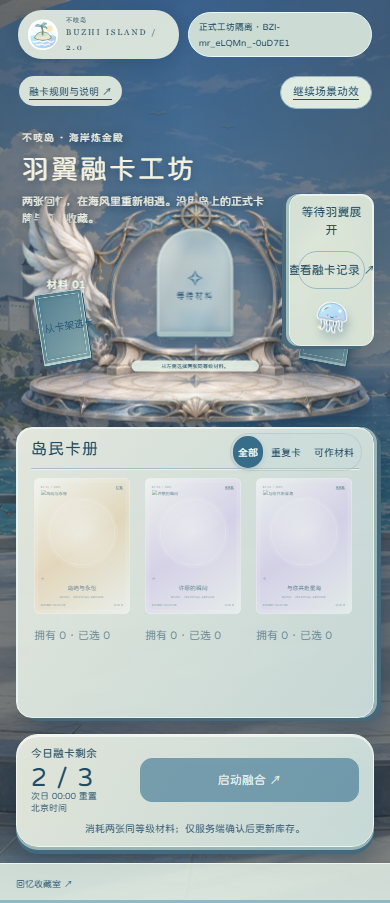
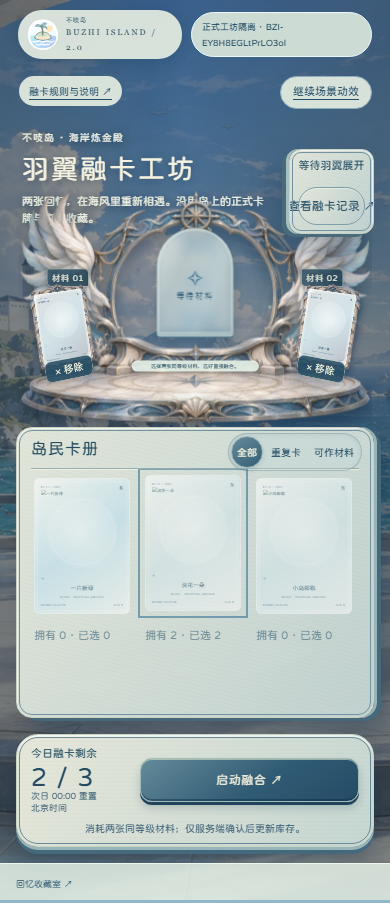
style: match material cradles to painted altar

diff --git a/ui-preview/workshop-visual-repair.css b/ui-preview/workshop-visual-repair.css
@@ -42,3 +42,9 @@ body[data-state=fusing] .altar-motion-frame{animation:altar-resonance 1.2s ease-
 @keyframes altar-hover{0%,100%{transform:translate3d(0,2px,0)}50%{transform:translate3d(0,-6px,0)}}@keyframes altar-reflection{0%,18%{transform:translate3d(0,0,0);opacity:0}28%{opacity:.8}62%{transform:translate3d(270%,0,0);opacity:.8}72%,100%{transform:translate3d(300%,0,0);opacity:0}}@keyframes altar-core{50%{opacity:.32;transform:scaleX(1.15)}}@keyframes altar-resonance{0%,100%{transform:translate3d(0,-3px,0) scale(1)}50%{transform:translate3d(0,-7px,0) scale(1.012)}}
 .effects-paused .altar-motion-frame,.effects-paused .altar-sheen:before,.effects-paused .altar-motion-frame:after,.motion-suspended .altar-motion-frame,.motion-suspended .altar-sheen:before,.motion-suspended .altar-motion-frame:after{animation-play-state:paused!important}
 @media(prefers-reduced-motion:reduce){.altar-motion-frame,.altar-sheen:before,.altar-motion-frame:after{animation:none!important}.altar-sheen{display:none}}
+
+/* Painted material cradles belong to the stage, never to the canonical card. */
+.machine .material-slot,.machine .material-slot.filled{background:none;border:0;border-radius:0;box-shadow:none;backdrop-filter:none;isolation:isolate;overflow:visible}.machine .material-slot:before{content:'';position:absolute;inset:-15px -12px;z-index:-1;background:url('/assets/material-cradle-painted.png') center/100% 100% no-repeat;border:0;border-radius:0;box-shadow:none;pointer-events:none;filter:drop-shadow(3px 9px 7px #0c294f88)}.machine .material-slot>.empty-slot{color:#d7e5dc;text-shadow:0 1px 4px #0c294a;font-family:var(--workshop-type);font-size:11px;padding:12px;line-height:1.8}.machine .material-slot .bzi-official-card-host{translate:none}.slot-label{top:153px;color:#e4e8d7;font-weight:400;font-family:var(--workshop-type);font-size:11px;letter-spacing:1px;background:linear-gradient(120deg,#36566adf,#17384cd9);border:1px solid #a3b8b0;border-radius:4px 10px;padding:3px 9px;box-shadow:inset 0 1px #f8f2d32e,0 3px 7px #0e2a4359}.remove-card:after{color:#edf0dd;background:#274e64e3;border:1px solid #90aaa7;border-radius:12px;padding:2px 4px;bottom:-34px;font-size:10px;text-shadow:none}
+.collection-cabinet,.result-cabinet{background:repeating-linear-gradient(12deg,#26445705 0 1px,transparent 1px 4px),linear-gradient(125deg,#e4e8dbfa,#c4d5d3f5);border:1px solid #c9d2c3;outline:1px solid #72929f;outline-offset:-5px}.cabinet-header{border-bottom-color:#6283918c}.shelf-tabs{border-color:#78949c7d;box-shadow:inset 0 1px 5px #3152661a}.action-dock{border:1px solid #c8d5c5;outline:1px solid #688996;outline-offset:-5px;background:repeating-linear-gradient(0deg,#284c6105 0 1px,transparent 1px 4px),linear-gradient(125deg,#e6e7d9,#c5d6d1)}.action-buttons #fuse-button{background:linear-gradient(145deg,#658b9a,#315c75 55%,#254b65);color:#f1efdc;border:1px solid #a4bcb6;box-shadow:inset 0 1px #e0e7ca99,inset 0 -2px #0b2b4777,0 3px 0 #21435b,0 6px 9px #193e5a36;letter-spacing:.5px}.shelf-tabs button[aria-pressed=true]{background:linear-gradient(145deg,#668c9a,#335e75);border:1px solid #9bb5b3;color:#f1efdc}.cabinet-header h2{color:#274c61}.result-cabinet #history-button{background:linear-gradient(120deg,#f2efde5e,#b2c9ca4d);border-color:#809ea7;box-shadow:inset 0 1px #faffef7d}
+@media(max-width:760px){.slot-label{font-size:16px;top:153px}.machine .material-slot>.empty-slot{font-size:18px}.remove-card:after{font-size:15px}.collection-cabinet,.result-cabinet{outline-offset:-4px}.action-dock{outline-offset:-4px}}
+@media(max-width:760px){.result-cabinet{top:80px;max-height:112px;overflow-x:hidden;overflow-y:auto}.result-cabinet .atelier-sticker{display:none}.result-info h3{font-size:11px}}

diff --git a/docs/admin-fusion/VISUAL-REPAIR-20261105.md b/docs/admin-fusion/VISUAL-REPAIR-20261105.md
@@ -40,3 +40,7 @@ workshop-live.js及official-card.js/css未改，完整文件哈希记录visual-r
 
 ### 最终方向：静态海面与装置本体动效
 用户否决雨滴波纹。正式候选未引入水面 WebGL 试验文件；停止独立试用服务，并移除 sea-life 中旧 CSS 水层创建，只留三只飞鸟。最新装饰脚本将绘制 PNG 包装为 altar-motion-frame，增加轻悬浮、alpha 蒙版反光及底部聚光，支持融合中、成功、暂停、隐藏页面及减少动效状态。原 valid/fuse 业务未改。
+
+
+### 绘制材料背托
+新增 material-cradle-painted.png，作为材料槽伪元素背托；正式卡片组件与业务脚本未改。取消旧硬边框，统一编号铭牌、面板内框纸纹及蓝银按钮。手机结果面板收高上移。定向检查包含两张正式组件放入、结果面板与材料槽矩形不交叠、无横向溢出。未部署。
